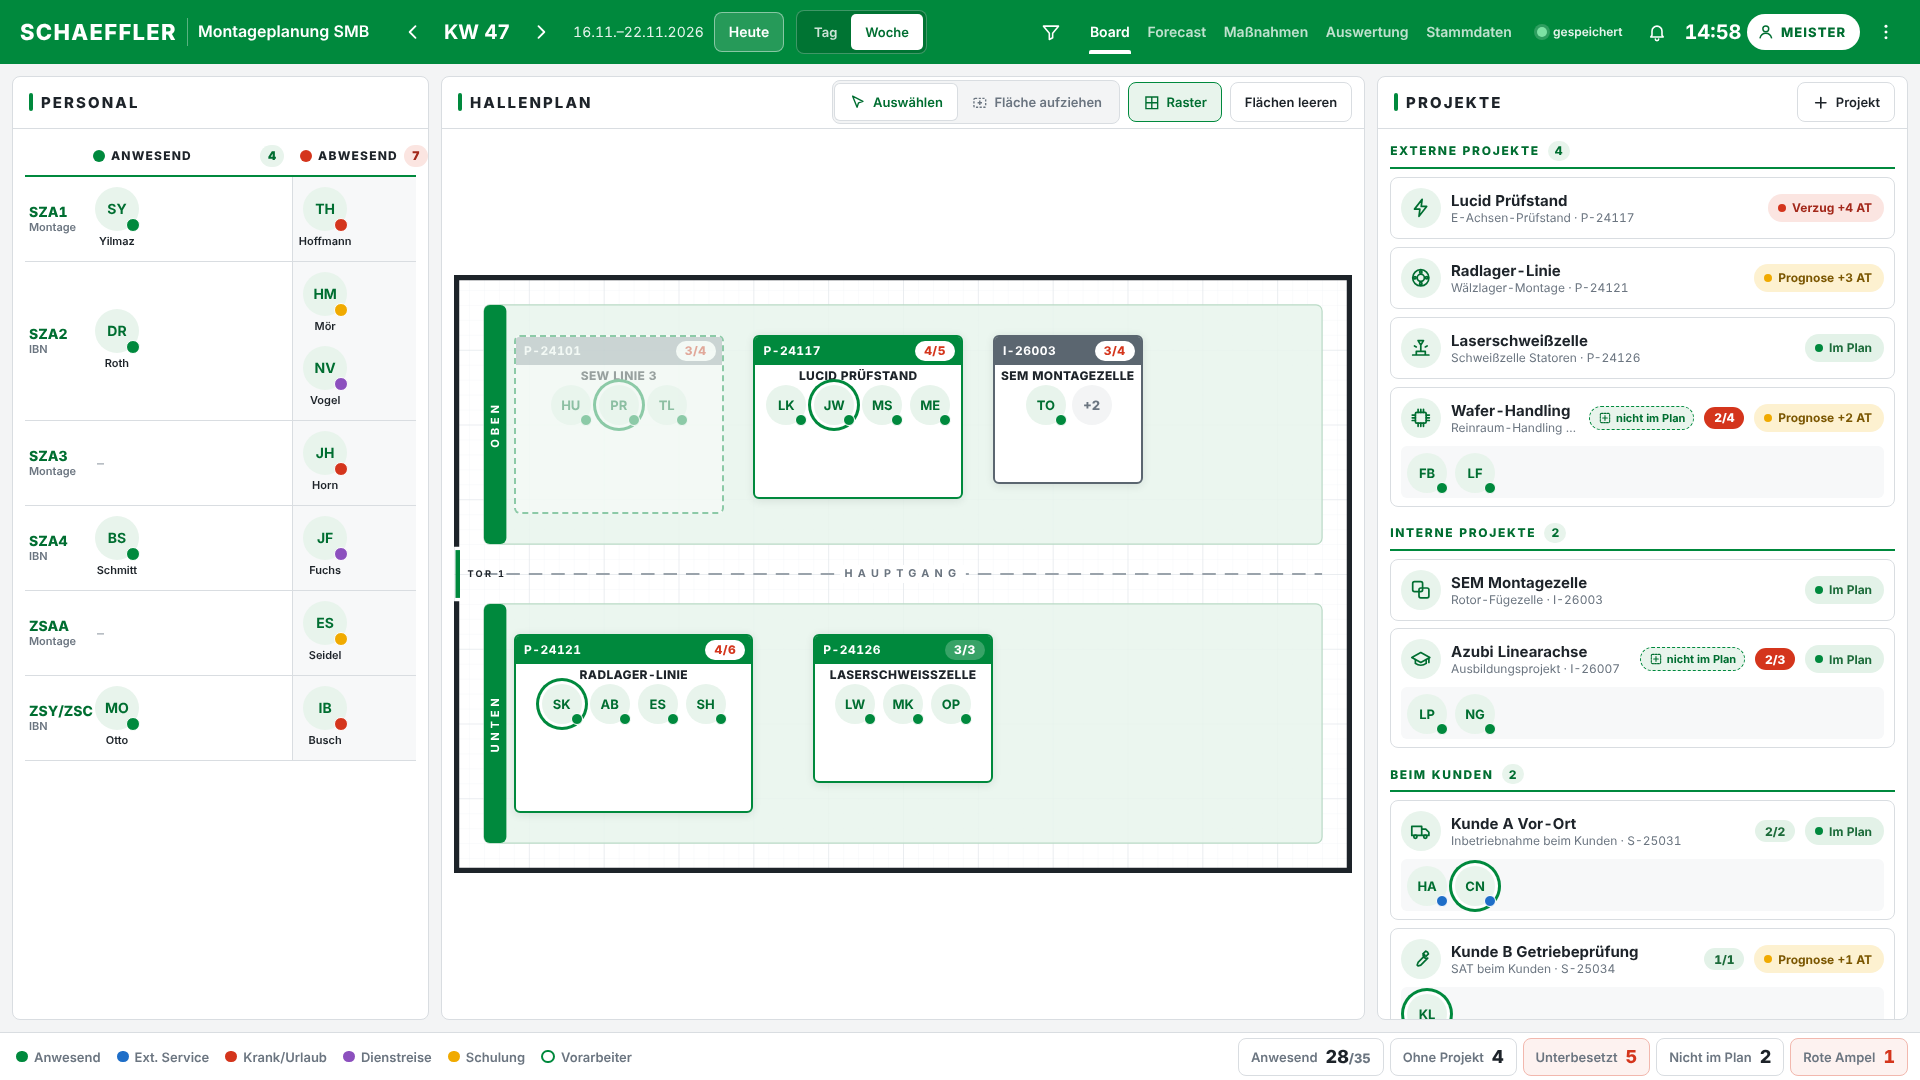
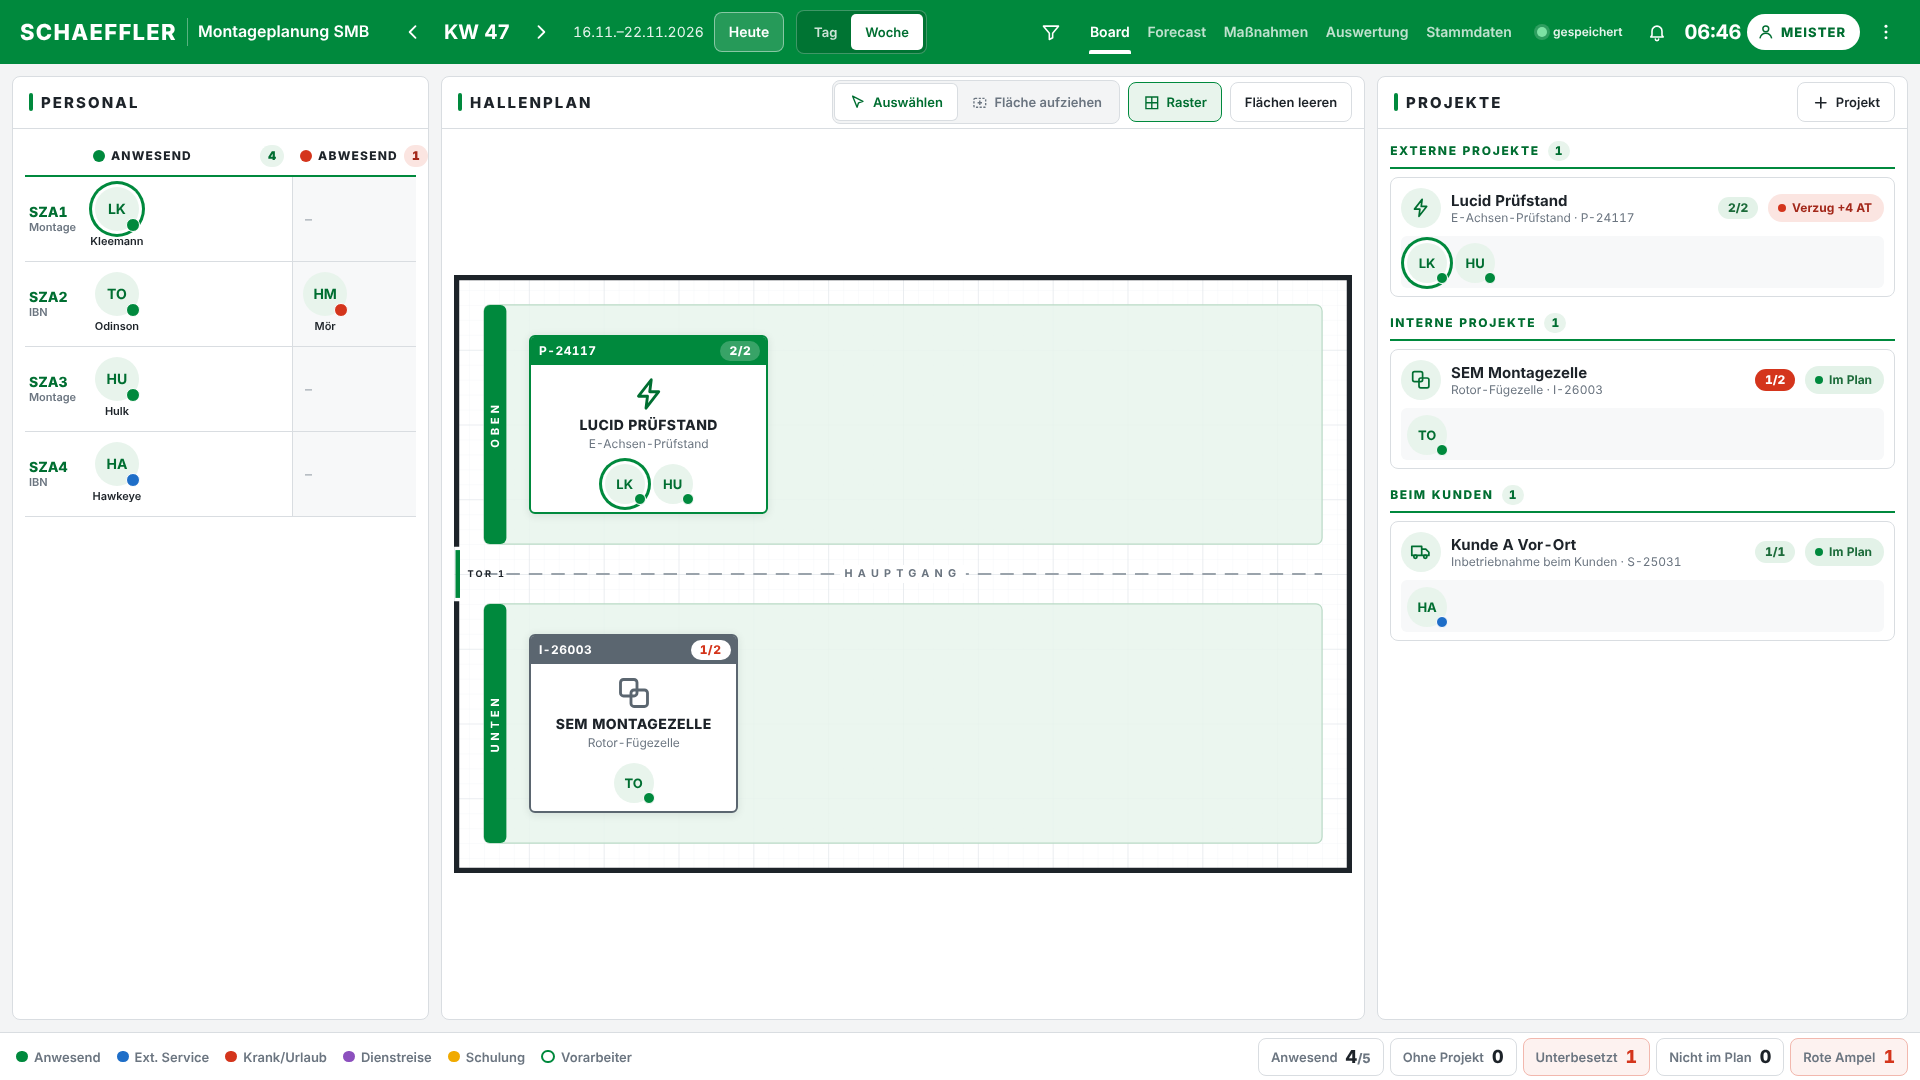
Montageboard: 5 Personen, 3 Projekte, Anwesende dreifach sichtbar
- Startdaten auf 5 Personen (3 anwesend, 1 Service, 1 abwesend) und 3 Projekte
  (extern + intern mit Fläche im Montagebereich, 1 Service) reduziert
- Anwesende erscheinen links unter Anwesend, im Hallenplan und rechts beim
  Projekt; Service links und unter „Beim Kunden“; Abwesende nur links
- Schema-Version 2 (alter Browser-Stand wird durch neue Startdaten ersetzt)
- README und Abnahmetests angepasst

Claude-Session: https://claude.ai/code/session_01FF7tkQzNvBLpewGBDK23vb

diff --git a/montageboard/js/data.js b/montageboard/js/data.js
@@ -8,7 +8,7 @@
 window.Board = window.Board || {};
 
 /** Version des Datenformats. Wird beim Laden aus localStorage/Datei geprüft. */
-Board.SCHEMA_VERSION = 1;
+Board.SCHEMA_VERSION = 2;
 
 /**
  * Erzeugt den Startzustand des Boards.
@@ -27,87 +27,35 @@ Board.seed = function () {
   };
 
   const abteilungen = [
-    { id: "SZA1",    kuerzel: "SZA1",    funktion: "Montage" },
-    { id: "SZA2",    kuerzel: "SZA2",    funktion: "Inbetriebnahme" },
-    { id: "SZA3",    kuerzel: "SZA3",    funktion: "Montage" },
-    { id: "SZA4",    kuerzel: "SZA4",    funktion: "Inbetriebnahme" },
-    { id: "ZSAA",    kuerzel: "ZSAA",    funktion: "Montage" },
-    { id: "ZSYZSC",  kuerzel: "ZSY/ZSC", funktion: "Inbetriebnahme" }
+    { id: "SZA1", kuerzel: "SZA1", funktion: "Montage" },
+    { id: "SZA2", kuerzel: "SZA2", funktion: "Inbetriebnahme" },
+    { id: "SZA3", kuerzel: "SZA3", funktion: "Montage" },
+    { id: "SZA4", kuerzel: "SZA4", funktion: "Inbetriebnahme" }
   ];
 
-  // Projekte: 5 mit Fläche im Plan, 2 ohne Fläche, 2 Service (nie im Hallenplan)
+  // Drei Projekte zur besseren Übersicht: ein externes und ein internes – beide
+  // werden direkt im Montagebereich bearbeitet (Fläche im Plan) – sowie ein
+  // Service-Projekt beim Kunden (nie im Hallenplan).
   const projekte = [
-    { id: "sew",   nummer: "P-24101", name: "SEW Linie 3",        kunde: "SEW Eurodrive",   unterzeile: "Montagelinie Getriebe",
-      art: "Extern",  startKW: 202645, endKW: 202646, status: "Im Plan",  statusText: "", soll: 4, abteilungId: "SZA3",
-      icon: "gear",    flaeche: { x: 4,  y: 4,  b: 14, t: 12 } },
-    { id: "lucid", nummer: "P-24117", name: "Lucid Prüfstand",    kunde: "Lucid",           unterzeile: "E-Achsen-Prüfstand",
-      art: "Extern",  startKW: 202646, endKW: 202652, status: "Verzug",   statusText: "+4 AT", soll: 5, abteilungId: "SZA1",
-      icon: "bolt",    flaeche: { x: 20, y: 4,  b: 14, t: 11 } },
-    { id: "sem",   nummer: "I-26003", name: "SEM Montagezelle",   kunde: "SEM",             unterzeile: "Rotor-Fügezelle",
-      art: "Intern",  startKW: 202646, endKW: 202650, status: "Im Plan",  statusText: "", soll: 4, abteilungId: "SZA2",
-      icon: "cell",    flaeche: { x: 36, y: 4,  b: 10, t: 10 } },
-    { id: "radl",  nummer: "P-24121", name: "Radlager-Linie",     kunde: "Antrieb Nord",    unterzeile: "Wälzlager-Montage",
-      art: "Extern",  startKW: 202644, endKW: 202702, status: "Prognose", statusText: "+3 AT", soll: 6, abteilungId: "ZSAA",
-      icon: "bearing", flaeche: { x: 4,  y: 24, b: 16, t: 12 } },
-    { id: "laser", nummer: "P-24126", name: "Laserschweißzelle",  kunde: "Energie Süd",     unterzeile: "Schweißzelle Statoren",
-      art: "Extern",  startKW: 202647, endKW: 202651, status: "Im Plan",  statusText: "", soll: 3, abteilungId: "SZA3",
-      icon: "laser",   flaeche: { x: 24, y: 24, b: 12, t: 10 } },
-    { id: "wafer", nummer: "P-24130", name: "Wafer-Handling",     kunde: "Halbleiter West", unterzeile: "Reinraum-Handling",
-      art: "Extern",  startKW: 202647, endKW: 202705, status: "Prognose", statusText: "+2 AT", soll: 4, abteilungId: "SZA1",
-      icon: "chip",    flaeche: null },
-    { id: "azubi", nummer: "I-26007", name: "Azubi Linearachse",  kunde: "SMB intern",      unterzeile: "Ausbildungsprojekt",
-      art: "Intern",  startKW: 202641, endKW: 202704, status: "Im Plan",  statusText: "", soll: 3, abteilungId: "ZSAA",
-      icon: "school",  flaeche: null },
-    { id: "kundeA", nummer: "S-25031", name: "Kunde A Vor-Ort",   kunde: "Kunde A",         unterzeile: "Inbetriebnahme beim Kunden",
-      art: "Service", startKW: 202647, endKW: 202649, status: "Im Plan",  statusText: "", soll: 2, abteilungId: "SZA4",
-      icon: "truck",   flaeche: null },
-    { id: "kundeB", nummer: "S-25034", name: "Kunde B Getriebeprüfung", kunde: "Kunde B",   unterzeile: "SAT beim Kunden",
-      art: "Service", startKW: 202647, endKW: 202650, status: "Prognose", statusText: "+1 AT", soll: 1, abteilungId: "ZSYZSC",
-      icon: "wrench",  flaeche: null }
+    { id: "lucid", nummer: "P-24117", name: "Lucid Prüfstand",  kunde: "Lucid",   unterzeile: "E-Achsen-Prüfstand",
+      art: "Extern",  startKW: 202646, endKW: 202652, status: "Verzug",  statusText: "+4 AT", soll: 2, abteilungId: "SZA1",
+      icon: "bolt",  flaeche: { x: 5, y: 4,  b: 16, t: 12 } },
+    { id: "sem",   nummer: "I-26003", name: "SEM Montagezelle", kunde: "SEM",     unterzeile: "Rotor-Fügezelle",
+      art: "Intern",  startKW: 202646, endKW: 202650, status: "Im Plan", statusText: "", soll: 2, abteilungId: "SZA2",
+      icon: "cell",  flaeche: { x: 5, y: 24, b: 14, t: 12 } },
+    { id: "kundeA", nummer: "S-25031", name: "Kunde A Vor-Ort", kunde: "Kunde A", unterzeile: "Inbetriebnahme beim Kunden",
+      art: "Service", startKW: 202647, endKW: 202649, status: "Im Plan", statusText: "", soll: 1, abteilungId: "SZA4",
+      icon: "truck", flaeche: null }
   ];
 
   // Personen: [Name, Abteilung, Projekt|null, Anwesenheit, Vorarbeiter]
+  // 3 anwesend (je auf einem Projekt), 1 im externen Service, 1 abwesend
   const roh = [
-    ["Lennart Kleemann", "SZA1", "lucid",  "Anwesend", false],
-    ["Jonas Weber",      "SZA1", "lucid",  "Anwesend", true],
-    ["Mia Schuster",     "SZA1", "lucid",  "Anwesend", false],
-    ["Felix Brandt",     "SZA1", "wafer",  "Anwesend", false],
-    ["Sara Yilmaz",      "SZA1", null,     "Anwesend", false],
-    ["Tim Hoffmann",     "SZA1", null,     "Abwesend", false],
-
+    ["Lennart Kleemann", "SZA1", "lucid",  "Anwesend", true],
+    ["Hulk",             "SZA3", "lucid",  "Anwesend", false],
     ["Thor Odinson",     "SZA2", "sem",    "Anwesend", false],
-    ["Hannah Mör",       "SZA2", null,     "Schulung", false],
-    ["Lukas Becker",     "SZA2", "sem",    "Anwesend", true],
-    ["Elena Kraus",      "SZA2", "sem",    "Anwesend", false],
-    ["David Roth",       "SZA2", null,     "Anwesend", false],
-    ["Nina Vogel",       "SZA2", null,     "Dienstreise", false],
-
-    ["Hulk",             "SZA3", "sew",    "Anwesend", false],
-    ["Paul Richter",     "SZA3", "sew",    "Anwesend", true],
-    ["Tobias Lange",     "SZA3", "sew",    "Anwesend", false],
-    ["Lea Wolf",         "SZA3", "laser",  "Anwesend", false],
-    ["Max Klein",        "SZA3", "laser",  "Anwesend", false],
-    ["Jan Horn",         "SZA3", null,     "Abwesend", false],
-
     ["Hawkeye",          "SZA4", "kundeA", "Service",  false],
-    ["Clara Neumann",    "SZA4", "kundeA", "Service",  true],
-    ["Moritz Engel",     "SZA4", "lucid",  "Anwesend", false],
-    ["Ben Schmitt",      "SZA4", null,     "Anwesend", false],
-    ["Julia Fuchs",      "SZA4", null,     "Dienstreise", false],
-    ["Oliver Peters",    "SZA4", "laser",  "Anwesend", false],
-
-    ["Simon Keller",     "ZSAA", "radl",   "Anwesend", true],
-    ["Anna Berg",        "ZSAA", "radl",   "Anwesend", false],
-    ["Erik Sommer",      "ZSAA", "radl",   "Anwesend", false],
-    ["Laura Pohl",       "ZSAA", "azubi",  "Anwesend", false],
-    ["Noah Graf",        "ZSAA", "azubi",  "Anwesend", false],
-    ["Emma Seidel",      "ZSAA", null,     "Schulung", false],
-
-    ["Kai Lorenz",       "ZSYZSC", "kundeB", "Service",  true],
-    ["Sophie Haas",      "ZSYZSC", "radl",   "Anwesend", false],
-    ["Luis Frank",       "ZSYZSC", "wafer",  "Anwesend", false],
-    ["Milan Otto",       "ZSYZSC", null,     "Anwesend", false],
-    ["Ida Busch",        "ZSYZSC", null,     "Abwesend", false]
+    ["Hannah Mör",       "SZA2", null,     "Abwesend", false]
   ];
 
   const personen = roh.map(function (r, i) {

diff --git a/montageboard/js/state.js b/montageboard/js/state.js
@@ -11,7 +11,7 @@ window.Board = window.Board || {};
 Board.state = (function () {
   "use strict";
   const U = Board.util;
-  const SPEICHER_SCHLUESSEL = "montageboard.v1";
+  const SPEICHER_SCHLUESSEL = "montageboard.v2";
   const UNDO_MAX = 30;
 
   /** Aktueller Datenstand (wird gespeichert). */
@@ -141,21 +141,19 @@ Board.state = (function () {
      ========================================================================= */
 
   /**
-   * Wo liegt die Karte einer Person? Jede Person liegt – wie ein Magnet – an
-   * genau EINER Stelle:
-   *  - projektId gesetzt → auf diesem Projekt (Fläche im Plan, Service-Eintrag
-   *    rechts oder – bei Projekt ohne Fläche – beim Listeneintrag rechts)
-   *  - kein Projekt & anwesenheit "Anwesend" → Personal, eigene Abteilung, Spalte Anwesend
-   *  - kein Projekt & sonst → Personal, eigene Abteilung, Spalte Abwesend
+   * Wo wird eine Person angezeigt? Eine anwesende Person erscheint DREIMAL:
+   *  1. links in ihrer Abteilung, Spalte „Anwesend“
+   *  2. im Hallenplan auf der Fläche ihres Projekts (externe und interne
+   *     Projekte werden direkt im Montagebereich bearbeitet)
+   *  3. rechts beim externen bzw. internen Projekt
+   * Service: links unter „Anwesend“ (blauer Punkt) und rechts unter „Beim
+   * Kunden“ – NICHT im Hallenplan.
+   * Abwesend/Dienstreise/Schulung: nur links in der Spalte „Abwesend“.
    * @param {object} p Person
-   * @returns {{typ:"projekt", projekt:object}|{typ:"abteilung", spalte:"an"|"ab"}}
+   * @returns {"an"|"ab"} Spalte in der Personaltabelle
    */
-  function ort(p) {
-    if (p.projektId) {
-      const pr = projekt(p.projektId);
-      if (pr) return { typ: "projekt", projekt: pr };
-    }
-    return { typ: "abteilung", spalte: p.anwesenheit === "Anwesend" ? "an" : "ab" };
+  function spalte(p) {
+    return (p.anwesenheit === "Anwesend" || p.anwesenheit === "Service") ? "an" : "ab";
   }
 
   /** Ist-Besetzung = Anzahl Personen mit dieser projektId. */
@@ -594,7 +592,7 @@ Board.state = (function () {
     daten: function () { return daten; },
     laden: laden, pruefen: pruefen,
     person: person, projekt: projekt, abteilung: abteilung,
-    ort: ort, ist: ist, personenAuf: personenAuf, besetzung: besetzung, laeuft: laeuft,
+    spalte: spalte, ist: ist, personenAuf: personenAuf, besetzung: besetzung, laeuft: laeuft,
     bereichVon: bereichVon, schneiden: schneiden, ueberschneidungen: ueberschneidungen, kennzahlen: kennzahlen,
     personAblegen: personAblegen, anwesenheitSetzen: anwesenheitSetzen, vorarbeiterSetzen: vorarbeiterSetzen, fotoSetzen: fotoSetzen,
     flaecheSetzen: flaecheSetzen, geometrieSetzen: geometrieSetzen, projektWechseln: projektWechseln, ausPlanEntfernen: ausPlanEntfernen,

diff --git a/montageboard/js/render.js b/montageboard/js/render.js
@@ -82,16 +82,14 @@ Board.render = (function () {
       const an = [], ab = [];
       d.personen.forEach(function (p) {
         if (p.abteilungId !== a.id) return;
-        const o = S.ort(p);
-        if (o.typ !== "abteilung") return;
-        (o.spalte === "an" ? an : ab).push(p);
+        (S.spalte(p) === "an" ? an : ab).push(p);
       });
       nAn += an.length; nAb += ab.length;
       const hlOhne = ui.hervorheben === "ohne" ? " hl" : "";
       return '<div class="pt-zeile' + (ui.filterAbt && ui.filterAbt !== a.id ? " gedimmt" : "") + '">' +
         '<div class="abt"><b>' + U.esc(a.kuerzel) + "</b><small>" + U.esc(a.funktion === "Inbetriebnahme" ? "IBN" : "Montage") + "</small></div>" +
         '<div class="zone an' + (ui.hervorheben === "anwesend" ? " hl" : "") + '" data-drop="abteilung" data-abt="' + a.id + '" data-spalte="an">' +
-          (an.length ? an.map(function (p) { return karte(p, false, hlOhne); }).join("") : '<span class="leer">–</span>') + "</div>" +
+          (an.length ? an.map(function (p) { return karte(p, false, hlOhne && !p.projektId ? hlOhne : ""); }).join("") : '<span class="leer">–</span>') + "</div>" +
         '<div class="zone ab" data-drop="abteilung" data-abt="' + a.id + '" data-spalte="ab">' +
           (ab.length ? ab.map(function (p) { return karte(p); }).join("") : '<span class="leer">–</span>') + "</div>" +
         "</div>";
@@ -106,12 +104,12 @@ Board.render = (function () {
      ========================================================================= */
 
   /**
-   * Ein Listeneintrag. Projekte ohne Fläche und Service-Projekte zeigen ihre
-   * Personen hier (dort „liegt“ der Magnet).
+   * Ein Listeneintrag. Jedes Projekt zeigt hier seine zugeteilten Personen
+   * (zusätzlich zur Anzeige links und im Hallenplan).
    */
   function eintrag(pr, ausserhalb) {
     const ui = S.ui;
-    const zeigtPersonen = pr.art === "Service" || !pr.flaeche;
+    const zeigtPersonen = true;
     const leute = zeigtPersonen ? S.personenAuf(pr.id) : [];
     const hl = (ui.hervorheben === "plan" && pr.art !== "Service" && !pr.flaeche && !ausserhalb) ||
                (ui.hervorheben === "rot" && pr.status === "Verzug" && !ausserhalb) ||

diff --git a/montageboard/style.css b/montageboard/style.css
@@ -166,7 +166,7 @@ img{-webkit-user-drag:none;user-drag:none}
 .flaeche.intern .f-ico .ico{color:#5B6670}
 .f-name{font-size:.875rem;font-weight:800;text-transform:uppercase;letter-spacing:.03em;line-height:1.15;max-width:100%;overflow:hidden;display:-webkit-box;-webkit-line-clamp:2;-webkit-box-orient:vertical}
 .f-sub{font-size:.75rem;color:var(--grau);max-width:100%;white-space:nowrap;overflow:hidden;text-overflow:ellipsis}
-.flaeche.kompakt .f-inhalt{flex:none;padding:.25rem .375rem 0}
+.flaeche.kompakt .f-inhalt{flex:none;padding:.5rem .375rem .125rem}
 .flaeche.kompakt .f-name{font-size:.75rem;-webkit-line-clamp:1}
 .f-pers{flex:none;display:flex;flex-wrap:wrap;justify-content:center;gap:.25rem;padding:0 .25rem .375rem}
 .flaeche.kompakt .f-pers{flex:1;align-content:flex-start}

diff --git a/montageboard/js/hallmap.js b/montageboard/js/hallmap.js
@@ -131,7 +131,7 @@ Board.hall = (function () {
       const sel = ui.auswahl && ui.auswahl.art === "p" && ui.auswahl.id === pr.id;
       const wpx = r.b * skala, hpx = r.t * skala;
       const kopfH = 1.9 * R, av = 2.75 * R + 4;
-      const gross = hpx >= 11.5 * R && wpx >= 8 * R;
+      const gross = hpx >= 10 * R && wpx >= 8 * R;
       const inhaltH = gross ? 4.9 * R : 1.6 * R;
       const spalten = Math.max(1, Math.floor((wpx - 10) / av));
       const zeilen = Math.max(0, Math.floor((hpx - kopfH - inhaltH - 6) / av));

diff --git a/montageboard/README.md b/montageboard/README.md
@@ -9,6 +9,20 @@ Projekte werden als Flächen frei auf einem maßstäblichen Hallenplan platziert
 * läuft vollständig **offline**, keine externen Ressourcen
 * Basisauflösung 1920 × 1080, skaliert exakt auf 3840 × 2160 (1 rem = 16 px bzw. 32 px)
 
+### Startdaten (bewusst klein für die Übersicht)
+
+| Person | Abteilung | Projekt | Status |
+|---|---|---|---|
+| Lennart Kleemann (Vorarbeiter) | SZA1 | Lucid Prüfstand (extern) | Anwesend |
+| Hulk | SZA3 | Lucid Prüfstand (extern) | Anwesend |
+| Thor Odinson | SZA2 | SEM Montagezelle (intern) | Anwesend |
+| Hawkeye | SZA4 | Kunde A Vor-Ort (Service) | Service |
+| Hannah Mör | SZA2 | – | Abwesend |
+
+Drei Projekte: **Lucid Prüfstand** (extern) und **SEM Montagezelle** (intern) werden
+direkt im Montagebereich bearbeitet und haben eine Fläche im Hallenplan;
+**Kunde A Vor-Ort** ist ein Service-Projekt beim Kunden (nie im Hallenplan).
+
 ---
 
 ## Bedienung
@@ -86,7 +100,7 @@ Bedienung (Pointer Events, Klicks, Tasten)
 
 ```js
 {
-  schemaVersion: 1,
+  schemaVersion: 2,
   halle: { breiteM: 60, tiefeM: 40,
            bereiche: [{ id, name, x, y, b, t }],     // Hintergrundflächen, fest
            hauptgang: { y, t, label },
@@ -111,10 +125,14 @@ im Dialog „Projekt platzieren“ mit **„Als freie Fläche behalten“** best
 
 ### Ableitungsregeln (`state.js`)
 
-* **Wo liegt eine Karte?** Jede Person liegt an genau einer Stelle:
-  `projektId` gesetzt → auf dem Projekt (Fläche, Service-Eintrag oder – bei Projekt ohne
-  Fläche – beim Listeneintrag); sonst in der eigenen Abteilung, Spalte **Anwesend**
-  (bei `anwesenheit = "Anwesend"`) bzw. **Abwesend**.
+* **Wo wird eine Person angezeigt?** (`spalte()` in `state.js`)
+  * **anwesend mit Projekt → dreimal:** links in der eigenen Abteilung unter **Anwesend**,
+    im **Hallenplan** auf der Fläche ihres Projekts und **rechts** beim externen bzw.
+    internen Projekt (externe Projekte werden ebenfalls direkt im Montagebereich bearbeitet).
+  * **Service → zweimal:** links unter **Anwesend** (blauer Punkt) und rechts unter
+    **Beim Kunden** – nicht im Hallenplan.
+  * **Abwesend / Dienstreise / Schulung → einmal:** links unter **Abwesend**.
+  * Jede dieser Karten kann gezogen werden; die Zuordnung gilt immer für die Person.
 * **Ist-Besetzung** = Anzahl Personen mit dieser `projektId`; Badge grün (Ist = Soll),
   rot (Ist < Soll), orange (Ist > Soll).
 * **Projekt läuft in KW**, wenn `startKW ≤ KW ≤ endKW` (Zahlenvergleich JJJJWW,
@@ -141,10 +159,10 @@ Im Popover gilt: *Abwesend/Dienstreise/Schulung* nehmen die Person aus ihrem Pro
 
 ## Speichern
 
-1. **Automatisch im Browser** (`localStorage`, Schlüssel `montageboard.v1`, mit
-   `schemaVersion`). Fehlt der Inhalt oder ist er defekt, werden die Startdaten geladen.
+1. **Automatisch im Browser** (`localStorage`, Schlüssel `montageboard.v2`, mit
+   `schemaVersion` 2). Fehlt der Inhalt oder ist er defekt, werden die Startdaten geladen.
 2. **Export/Import** über das Menü: kompletter Stand als `montageboard-JJJJ-MM-TT.json`;
-   beim Import Prüfung und Vorschau („9 Projekte, 35 Personen – übernehmen?“).
+   beim Import Prüfung und Vorschau („3 Projekte, 5 Personen – übernehmen?“).
 3. **Mit Datei verbinden** (nur sichtbar, wenn der Browser `showSaveFilePicker` anbietet):
    neue Datei anlegen oder vorhandene öffnen (z. B. im OneDrive-/Teams-Ordner). Jede
    Änderung wird nach 1 s in die Datei geschrieben, alle 30 s wird geprüft, ob die Datei
@@ -165,17 +183,17 @@ zusätzlich mit echten Touch-Ereignissen (Chrome DevTools Protocol) bei 1920 × 
 | # | Testfall | Ergebnis |
 |---|---|---|
 | 1 | `index.html` per `file://` öffnen | ✅ vollständig, 0 Konsolenfehler, 0 Netzwerkanfragen |
-| 2 | Lennart Kleemann von „Lucid Prüfstand“ auf „SEW Linie 3“ ziehen | ✅ Ist Lucid 4→3, SEW 3→4, Statusleiste aktualisiert |
-| 3 | Thor Odinson auf „Kunde A Vor-Ort“ ziehen | ✅ Status Service (blauer Punkt), Karte unter „Beim Kunden“ |
-| 4 | Hulk in SZA3 → Abwesend ziehen | ✅ Projekt leer, Status Abwesend, roter Punkt |
+| 2 | Lennart Kleemann von „Lucid Prüfstand“ auf „SEM Montagezelle“ ziehen | ✅ Ist Lucid 2→1, SEM 1→2; Lennart weiterhin 3× sichtbar (links, Plan, rechts) |
+| 3 | Thor Odinson auf „Kunde A Vor-Ort“ ziehen | ✅ Status Service (blauer Punkt), Karte unter „Beim Kunden“, nicht mehr im Plan |
+| 4 | Hulk in SZA3 → Abwesend ziehen | ✅ Projekt leer, Status Abwesend, roter Punkt, nur noch links |
 | 5 | Hulk in SZA1 → Anwesend ziehen | ✅ abgelehnt, federt zurück, Hinweis |
-| 6 | 12 × 10 m aufziehen → „Wafer-Handling“ platzieren | ✅ Fläche mit Projekt, „Nicht im Plan“ 2→1 |
+| 6 | 12 × 10 m aufziehen → Projekt „hierher verschieben“ | ✅ Fläche mit Projekt an neuer Stelle |
 | 7 | Fläche über Kopfzeile verschieben, an Ecke vergrößern | ✅ Maße im 0,5-m-Raster, Überschneidung rot markiert |
 | 8 | Strg+Z | ✅ letzte Änderung zurückgenommen |
 | 9 | Seite neu laden | ✅ Stand exakt identisch |
-| 10 | KW 202652 → weiterblättern | ✅ KW 52 (21.12.–27.12.2026) → **KW 53** (28.12.–03.01.2027) → KW 1 (04.01.–10.01.2027); laufende Projekte außerhalb ausgegraut |
+| 10 | KW 202652 → weiterblättern | ✅ KW 52 (21.12.–27.12.2026) → **KW 53** (28.12.–03.01.2027) → KW 1 (04.01.–10.01.2027); Projekte außerhalb ausgegraut |
 | 11 | Touch bei 1920 × 1080 und 3840 × 2160 | ✅ Ziehen, Antippen (Popover) und Aufziehen funktionieren, kein Überlauf |
-| 12 | Export → Startdaten → Import | ✅ alter Stand wieder da |
+| 12 | Export → Startdaten → Import | ✅ alter Stand wieder da („3 Projekte, 5 Personen – übernehmen?“) |
 
 Hinweis zu Fall 10: 2026 hat nach ISO 8601 **53 Kalenderwochen** (das Jahr beginnt an
 einem Donnerstag). Zwischen 202652 und 202701 liegt deshalb korrekt die KW 202653.
